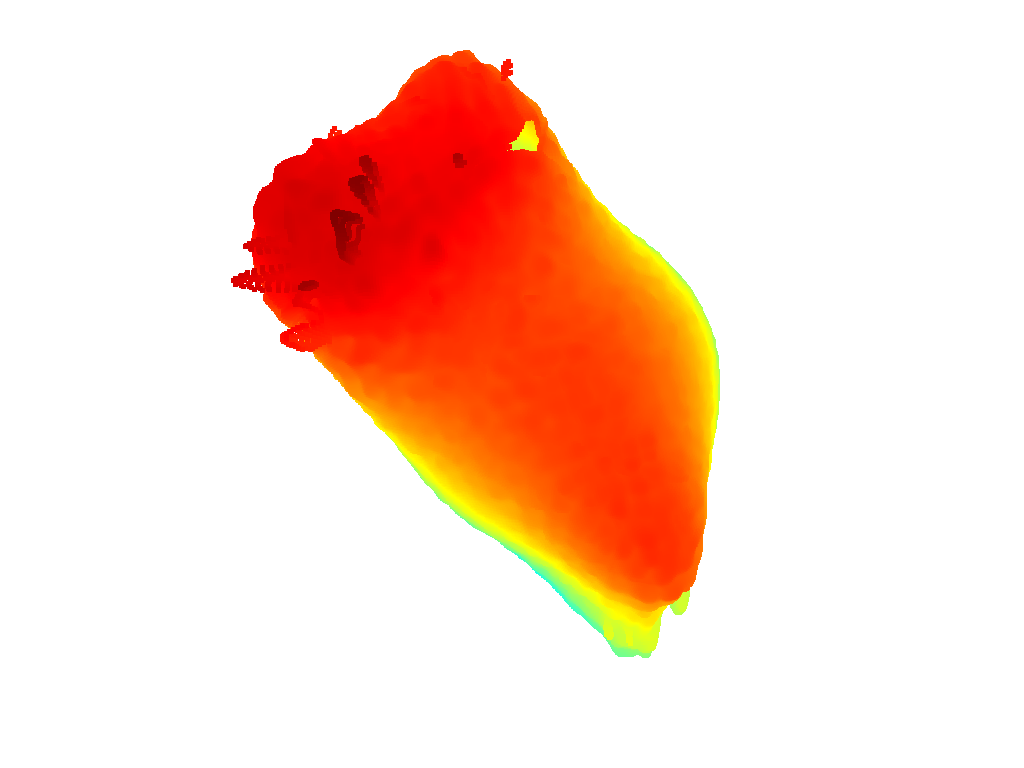
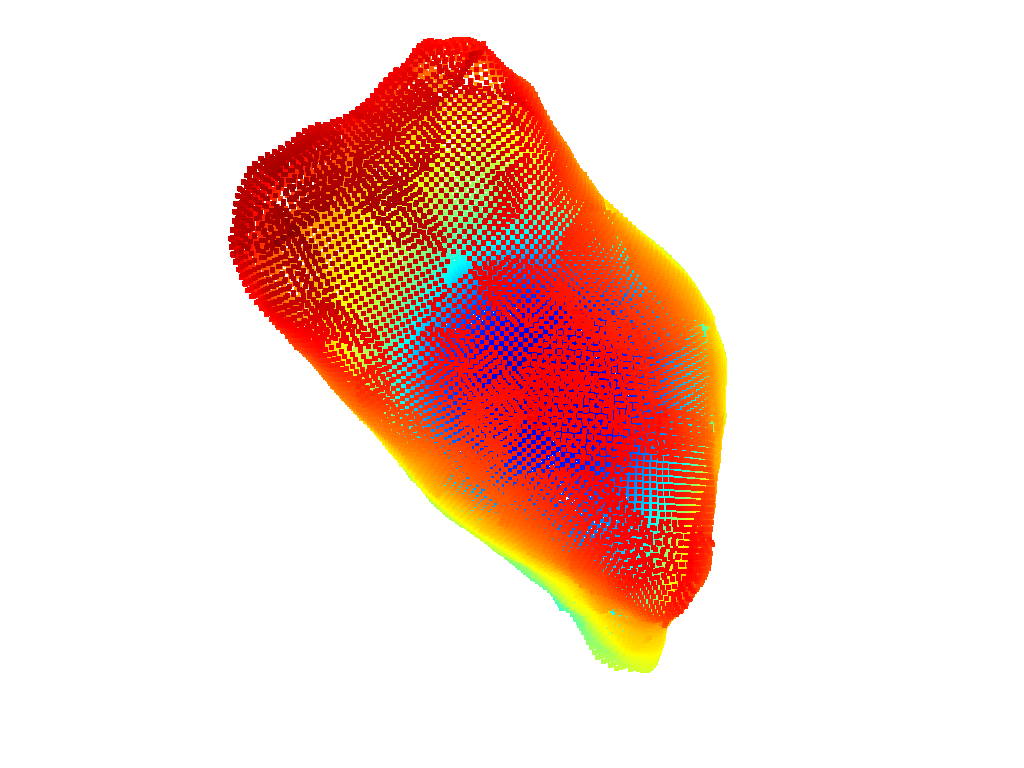
fixed fft

Changed region(s): [[0.2188, 0.0312, 0.7188, 0.875]]

diff --git a/pcd/examples/rabbit_example_fft.py b/pcd/examples/rabbit_example_fft.py
@@ -1,0 +1,36 @@
+"""
+Example script for generating and visualizing a sphere with blobs.
+"""
+
+import numpy as np
+import open3d as o3d
+from pcd.data_processor.data import visualise_pcds
+from pcd.data_processor.data import add_noise, add_noise_inplace
+from pcd.pipeline.denoise import local_denoise
+from pcd.regressor.regressor import denoise_ls
+from pcd.fourier.denoise import denoise_fft
+from pcd.pipeline.utils import crop_outliers
+
+np.random.seed(100)
+
+
+if __name__ == "__main__":
+    pcd = o3d.io.read_point_cloud("data/Rabbit.ply")
+    pcd_noised = add_noise_inplace(pcd, 1, 0.8)
+    visualise_pcds(pcd_noised)
+    denoised = local_denoise(
+            pcd_noised,
+            denoise_function=denoise_fft,
+            basis_function="pca",
+            distance_threshold=3,
+            step_size=0.5,
+            locality_threshold=1,
+            post_process=crop_outliers(0.1)
+        )
+
+    pcd_noised.translate(np.array([-70, 0, 0]))
+    pcd.translate(np.array([70, 0, 0]))
+    visualise_pcds(pcd_noised, denoised, pcd)
+    o3d.io.write_point_cloud("OUR_YOUNG_GANG.ply", denoised)
+
+

diff --git a/pcd/pipeline/denoise.py b/pcd/pipeline/denoise.py
@@ -8,6 +8,8 @@ from pcd.pipeline.utils import (
     euclidean_segmentation,
     change_of_basis_denoise
 )
+from pcd.data_processor.data import visualise_pcds
+
 
 if o3d.core.cuda.is_available():
     from open3d.cuda.pybind.geometry import PointCloud
@@ -54,16 +56,18 @@ def local_denoise(
 
     for i, (segment, centroid, radius) in enumerate(segments):
         filtered_points = np.asarray(segment.points)
+        print(f"{i}/{len(segments)}")
         if filtered_points.shape[0] > 0:
             denoised_pcd = change_of_basis_denoise(
                 pointcloud(filtered_points, colors=np.asarray(segment.colors)),
                 denoise_function=denoise_function,
                 basis_function=basis_function,
             )                
-
+            
             local_denoised_points = np.asarray(denoised_pcd.points)
             if post_process is not None:
                 local_denoised_points = post_process(local_denoised_points, centroid, radius)
+
 
             if denoised_points is None:
                 denoised_points = local_denoised_points

diff --git a/pcd/examples/sphere_example.py b/pcd/examples/sphere_example.py
@@ -5,7 +5,7 @@ Sphere example -- demonstration of point cloud splitting, noise addition and den
 import numpy as np
 from pcd.data_processor.data import visualise_pcds
 from pcd.misc.misc import sphere_with_blobs, sphere, save_point_cloud_screenshot
-from pcd.data_processor.data import add_noise
+from pcd.data_processor.data import add_noise, pointcloud
 from pcd.pipeline.denoise import local_denoise
 from pcd.pipeline.utils import crop_outliers
 from pcd.regressor.regressor import denoise_ls
@@ -23,13 +23,15 @@ def main() -> None:
     pcd1 = sphere_with_blobs(pcd, k=5, blob_radius=0.9, blob_height=0.5)
     sphere_noised = add_noise(pcd1, 0.1, 0.1)
 
+    visualise_pcds(sphere_noised)
+
     denoised = local_denoise(
         sphere_noised,
         denoise_function=denoise_fft,
         basis_function="pca",
-        distance_threshold=0.6,
+        distance_threshold=0.45,
         step_size=0.05,
-        locality_threshold=0.005,
+        locality_threshold=0.3,
         post_process=crop_outliers(0.10)
     )
 

diff --git a/pcd/fourier/utils.py b/pcd/fourier/utils.py
@@ -33,7 +33,7 @@ def compute_coordinate_system(points: np.ndarray) -> Tuple[np.ndarray, np.ndarra
 
 
 def plane_projection(
-    points: np.ndarray, size: int
+    points: np.ndarray
 ) -> Tuple[np.ndarray, np.ndarray, np.ndarray, np.ndarray]:
     """
     Project 3D points onto a regular 2D grid.
@@ -51,6 +51,10 @@ def plane_projection(
     """
     min_ = np.min(points, axis=0)
     max_ = np.max(points, axis=0)
+
+    dx = max_[0] - min_[0]        
+    size = int(dx / 0.03)
+
     grid_x, grid_y = np.linspace(min_[0], max_[0], size), np.linspace(
         min_[1], max_[1], size
     )
@@ -70,7 +74,7 @@ def plane_projection(
     return grid, grid_x, grid_y, sampled_points
 
 
-def fourier_filter(height: np.ndarray, radius: int = 10) -> np.ndarray:
+def fourier_filter(height: np.ndarray, radius: int = 3) -> np.ndarray:
     """
     Apply a low-pass filter in the frequency domain.
 

diff --git a/pcd/fourier/denoise.py b/pcd/fourier/denoise.py
@@ -32,7 +32,7 @@ def denoise_fft(pc: PointCloud) -> PointCloud:
     to remove noise, and then reconstructs the point cloud.
     """
     points = np.asarray(pc.points)
-    height, grid_x, grid_y, sampled_points = plane_projection(points, 100)
+    height, grid_x, grid_y, sampled_points = plane_projection(points)
     filtered_heights = fourier_filter(height)
     grid_points = grid_to_points(filtered_heights, grid_x, grid_y)
     return o3d.geometry.PointCloud(o3d.utility.Vector3dVector(grid_points))

diff --git a/pcd/pipeline/utils.py b/pcd/pipeline/utils.py
@@ -161,6 +161,7 @@ def euclidean_segmentation(
 
     while unsegmented_points:
         current_point = random.choice(list(unsegmented_points))
+        print(len(unsegmented_points))
         _, idx, _ = pcd_tree.search_radius_vector_3d(current_point, distance_thresh)
 
         try:
